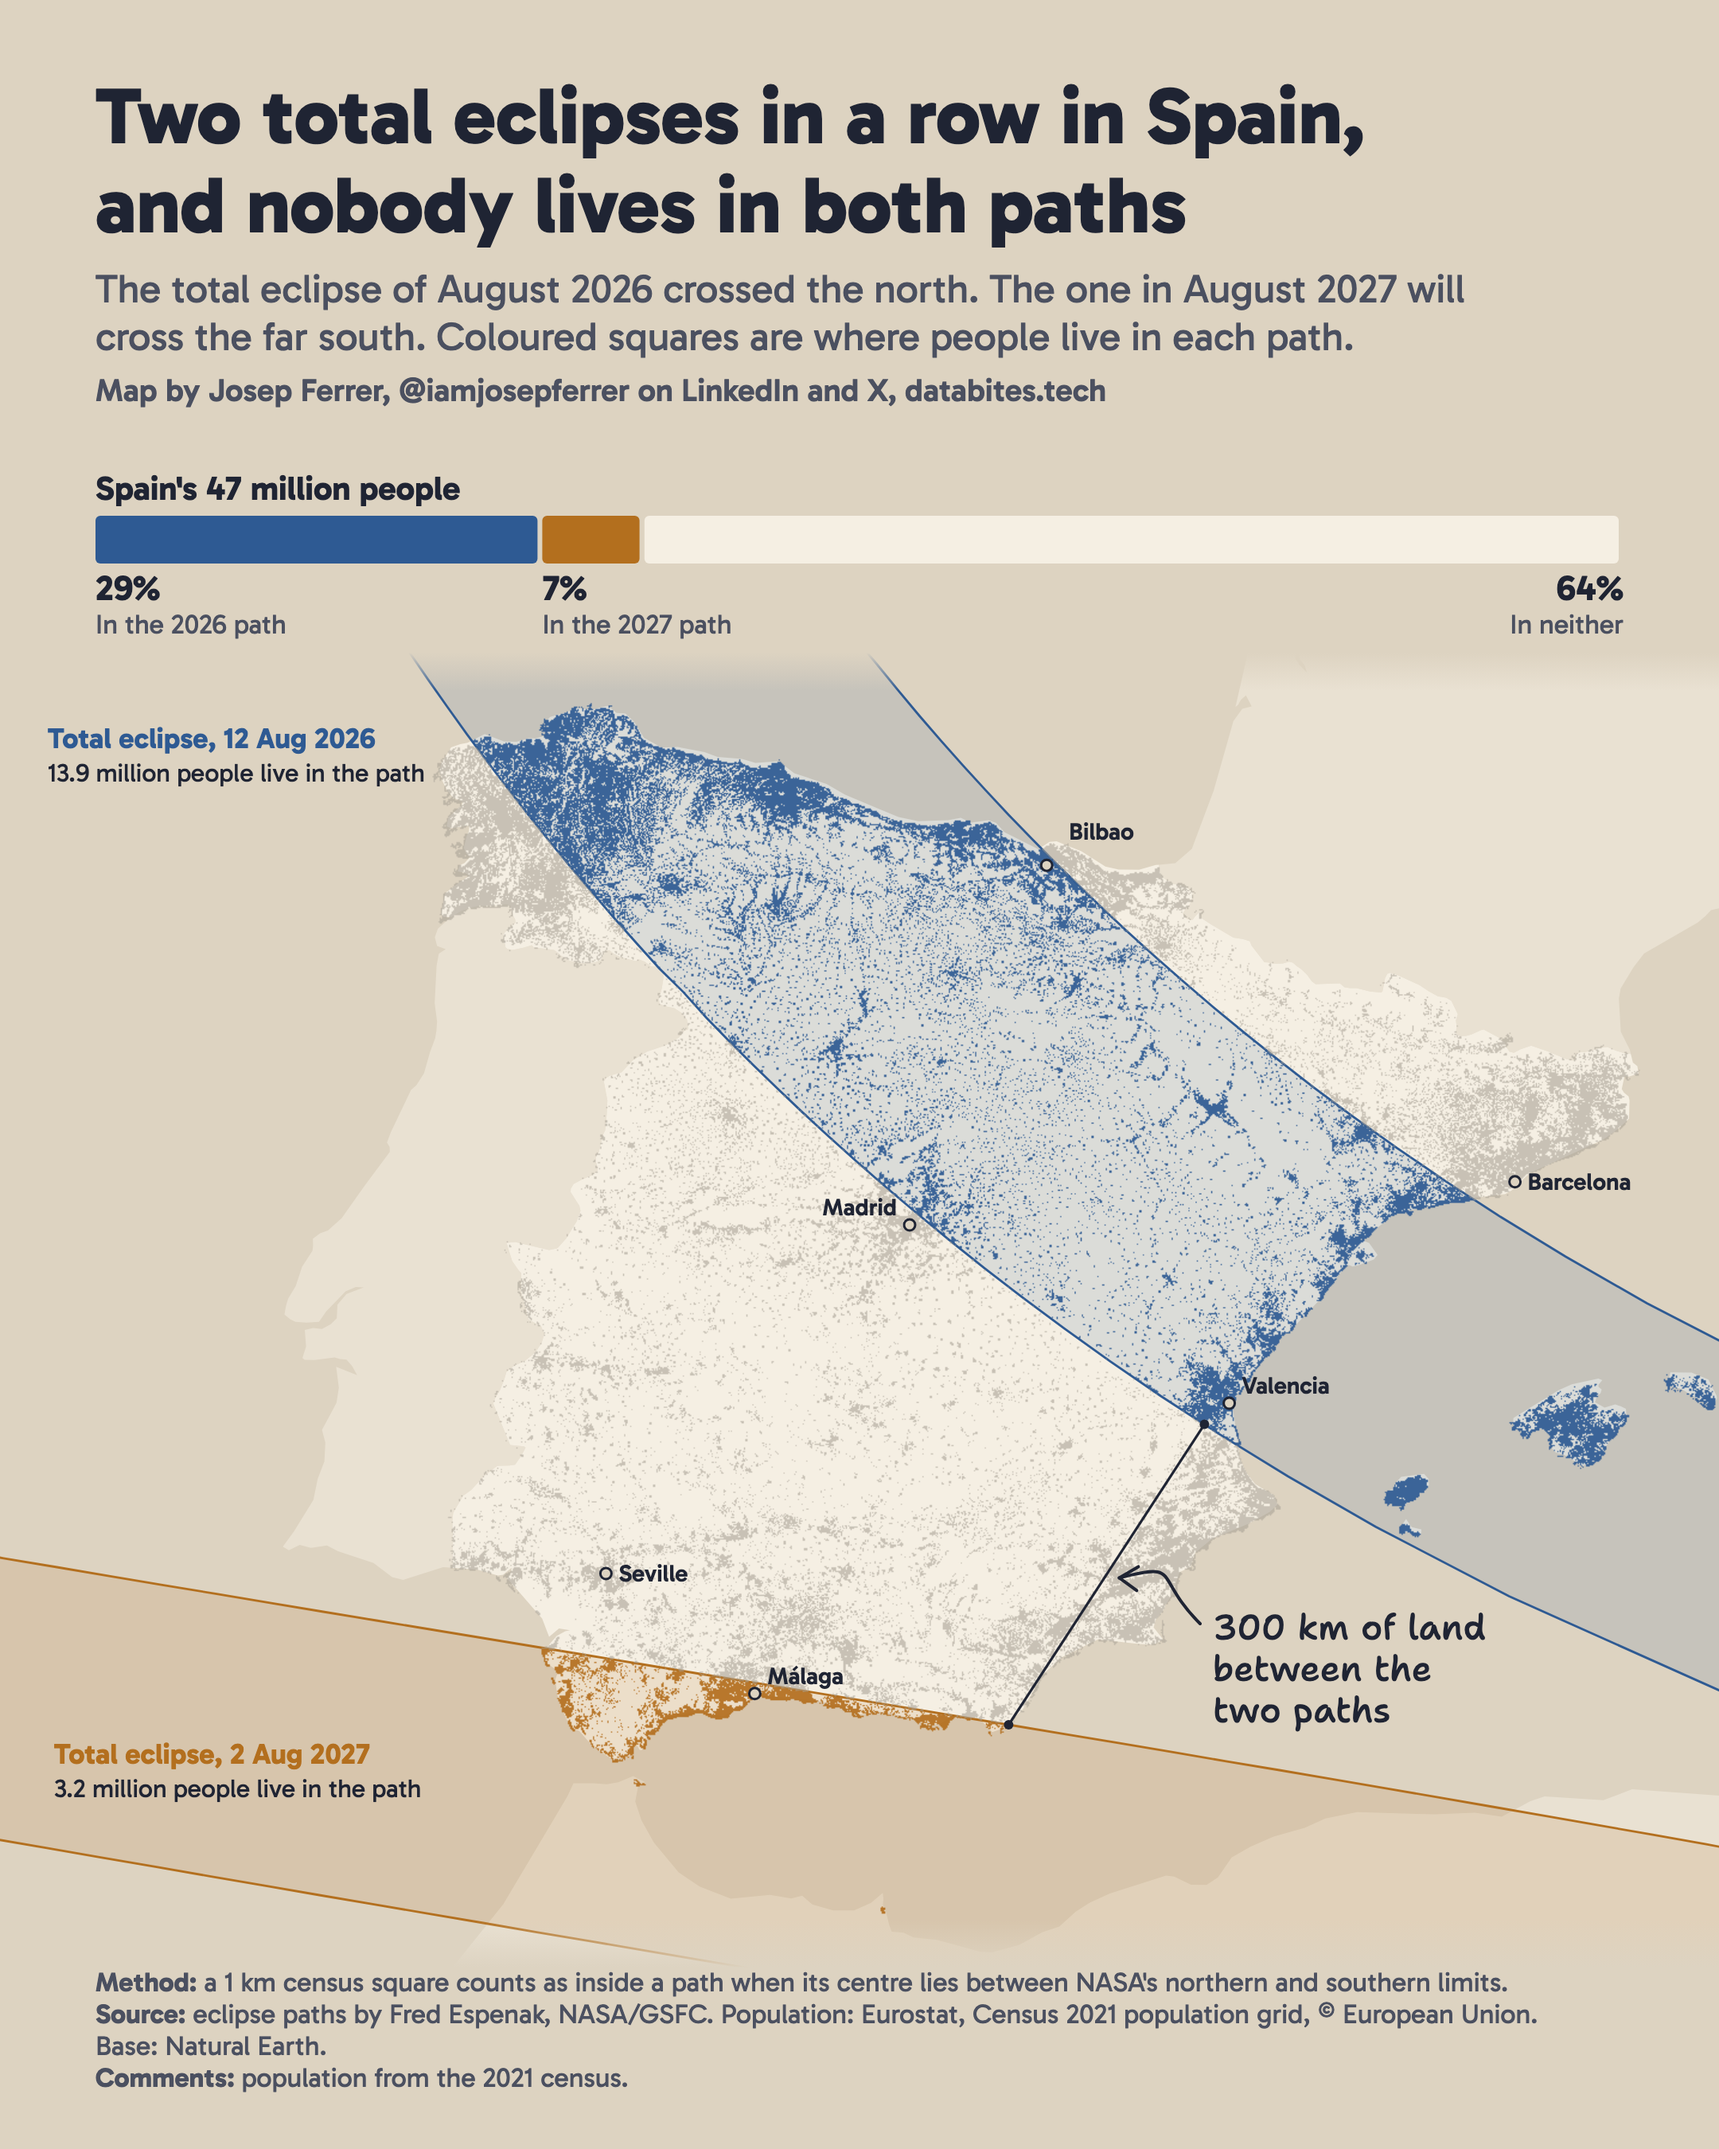
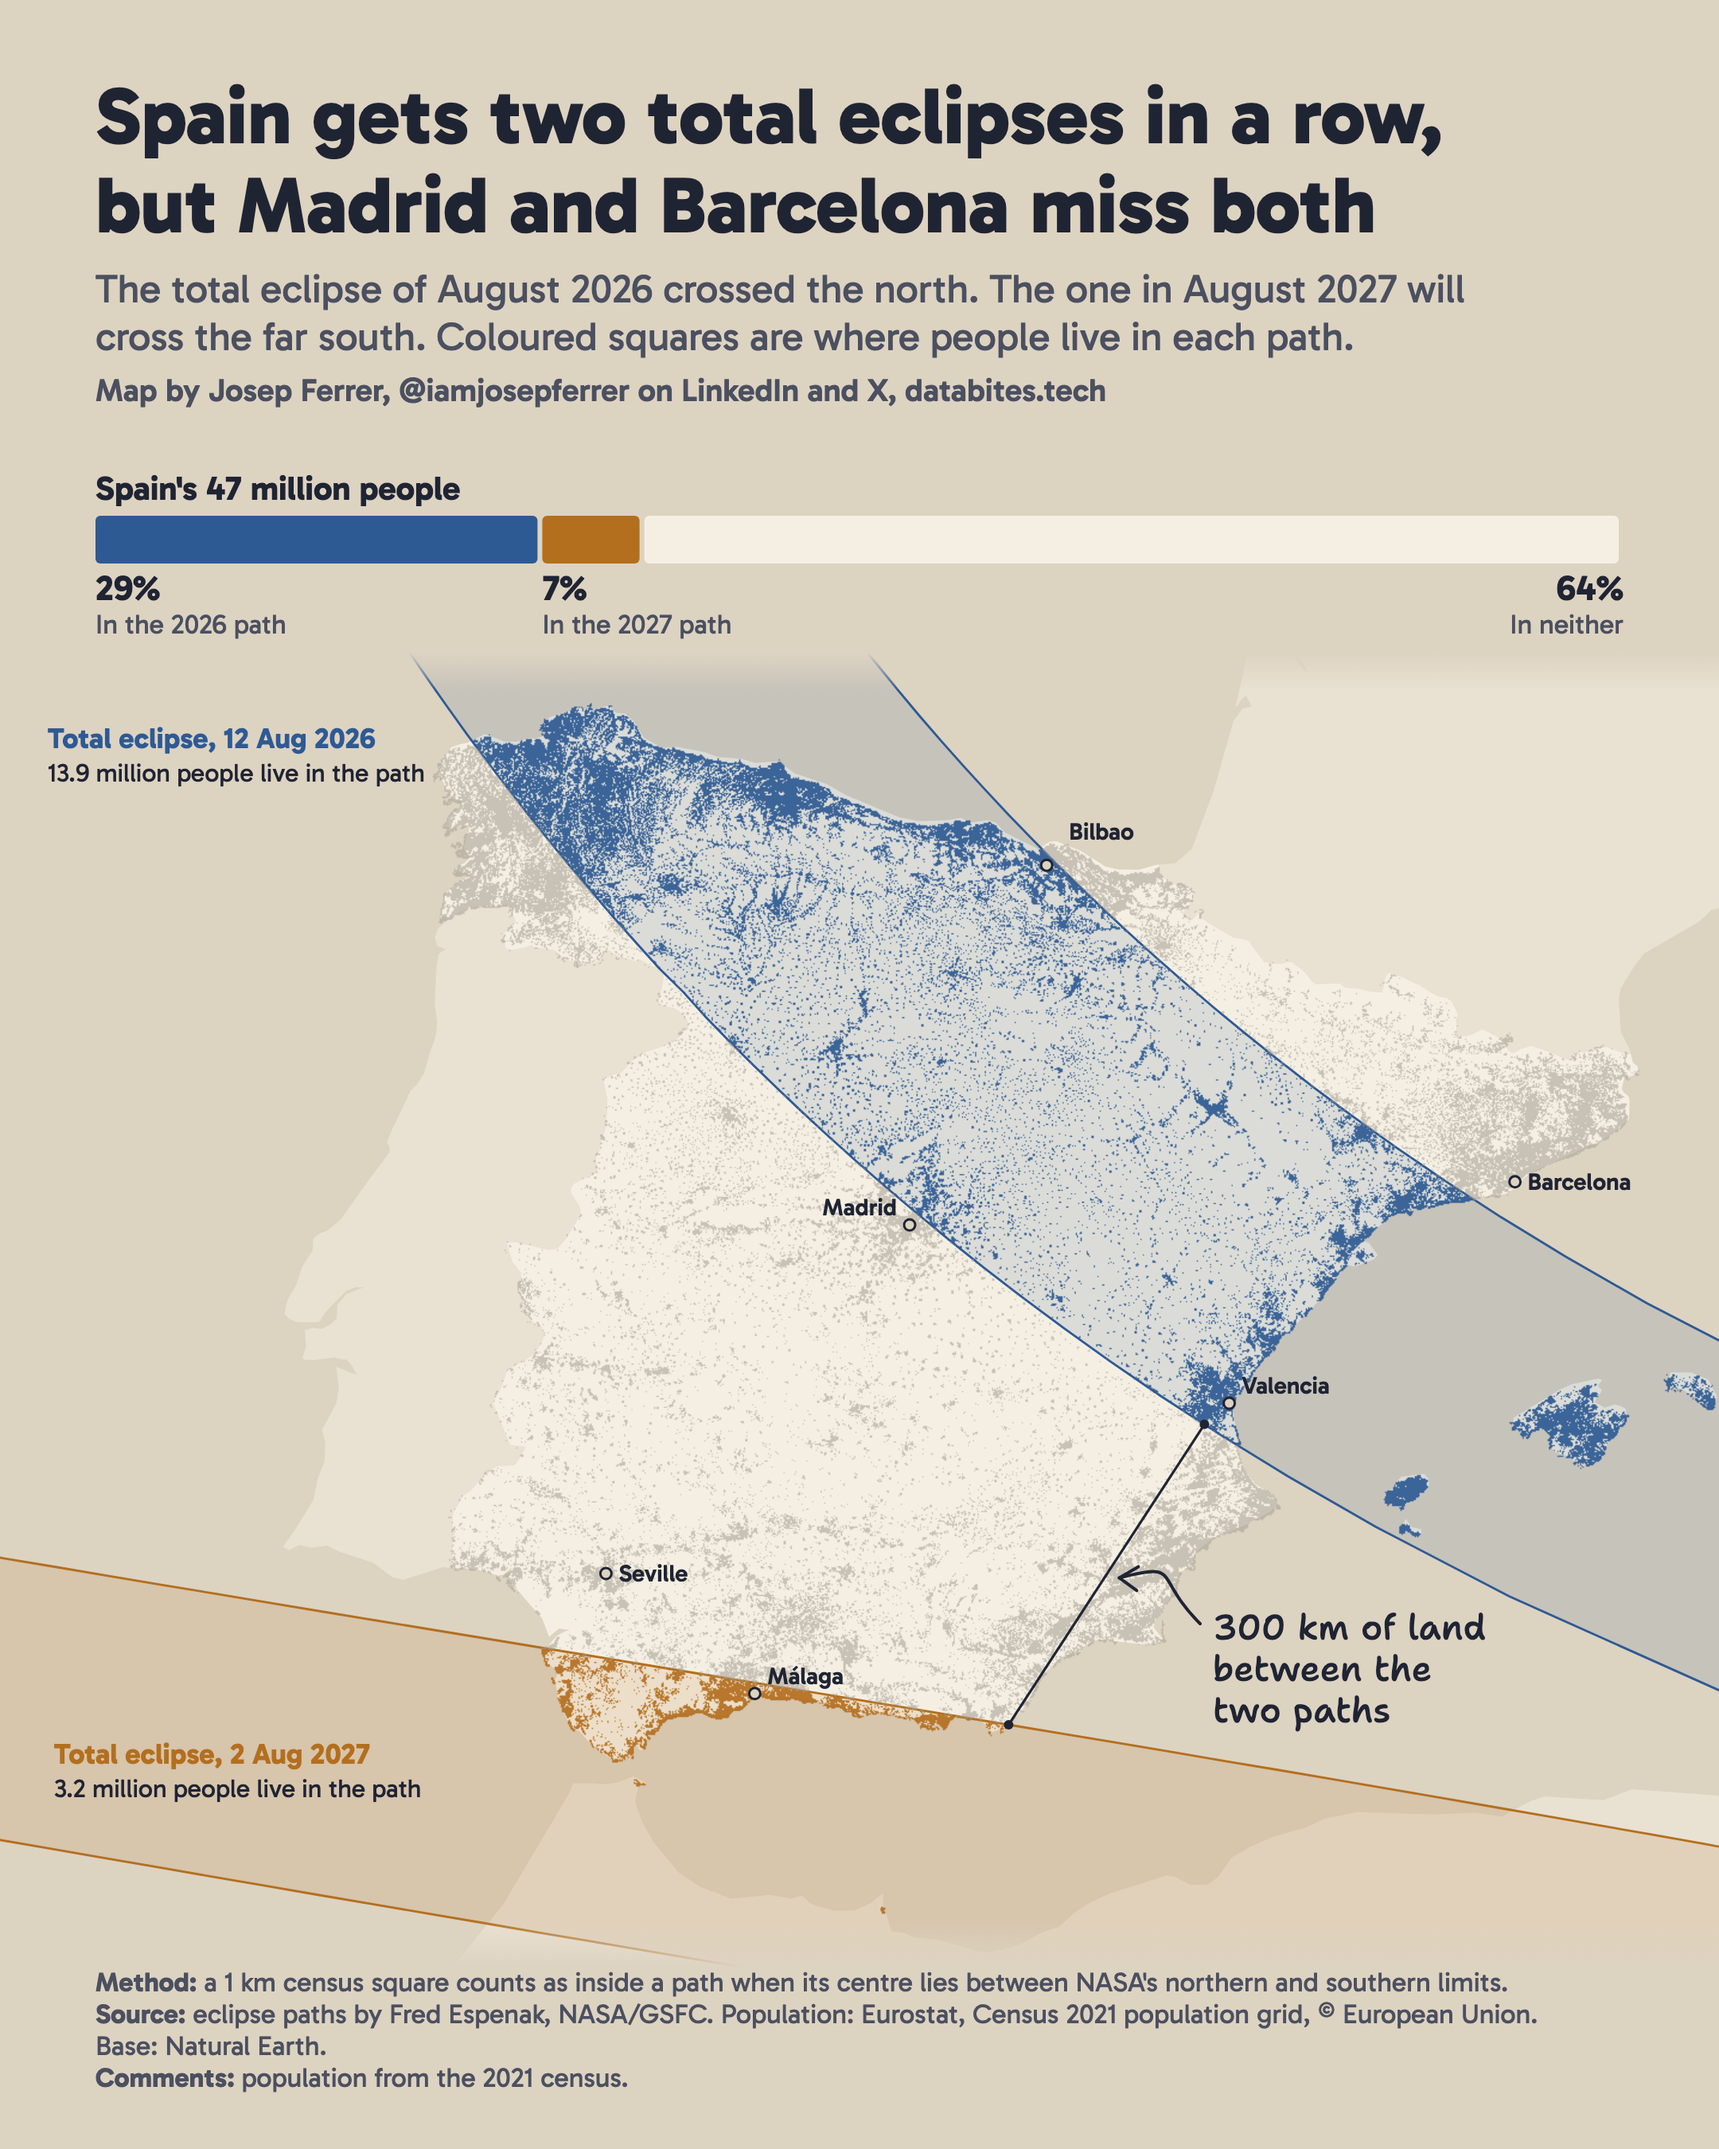
day 5: Final version of the chart

Changed region(s): [[0.062, 0.0311, 0.8375, 0.1244]]

diff --git a/2026/day05_sight/day05_sight.py b/2026/day05_sight/day05_sight.py
@@ -1,4 +1,4 @@
-"""Day 5, Senses, Sight: Spain gets two total solar eclipses in a year, but nobody lives in both paths."""
+"""Day 5, Senses, Sight: Spain gets two total eclipses in a row, but Madrid and Barcelona miss both."""
 import base64
 import io
 import re
@@ -198,8 +198,8 @@ for share, colour, label in segments:
     x += width
 
 # 8. Headline, dek, byline and footer
-svg.append(text(60, 90, "Two total eclipses in a row in Spain,", 50, 800))
-svg.append(text(60, 146, "and nobody lives in both paths", 50, 800))
+svg.append(text(60, 90, "Spain gets two total eclipses in a row,", 50, 800))
+svg.append(text(60, 146, "but Madrid and Barcelona miss both", 50, 800))
 svg.append(text(60, 190, "The total eclipse of August 2026 crossed the north. The one in August 2027 will", 25, 400, C["ink2"]))
 svg.append(text(60, 220, "cross the far south. Coloured squares are where people live in each path.", 25, 400, C["ink2"]))
 svg.append(byline(252))

diff --git a/2026/README.md b/2026/README.md
@@ -6,7 +6,7 @@ One map a day about Europe, each built around a clear finding.
 - [Day 2, Lines: Europe's biggest port is the nearest one for under 4% of city dwellers](#day-2-lines)
 - [Day 3, Polygons: half of Europe's tourist nights happen in just 102 of its 1,247 regions](#day-3-polygons)
 - [Day 4, Clusters: a third of the land in the EU, Norway and Switzerland is just three empty patches](#day-4-clusters)
-- [Day 5, Senses, Sight: two total eclipses in a row in Spain, and nobody lives in both paths](#day-5-senses-sight)
+- [Day 5, Senses, Sight: Spain gets two total eclipses in a row, but Madrid and Barcelona miss both](#day-5-senses-sight)
 - [Data sources and licenses](#data-sources-and-licenses)
 - [How to recreate the maps](#how-to-recreate-the-maps)
 
@@ -185,7 +185,7 @@ The Iberian patch covers 72% of Spain and reaches from Portugal into France, so 
 
 ## Day 5: Senses, Sight
 
-![Two total eclipses in a row in Spain, and nobody lives in both paths](day05_sight/day05_sight.png)
+![Spain gets two total eclipses in a row, but Madrid and Barcelona miss both](day05_sight/day05_sight.png)
 
 ### What it shows
 
